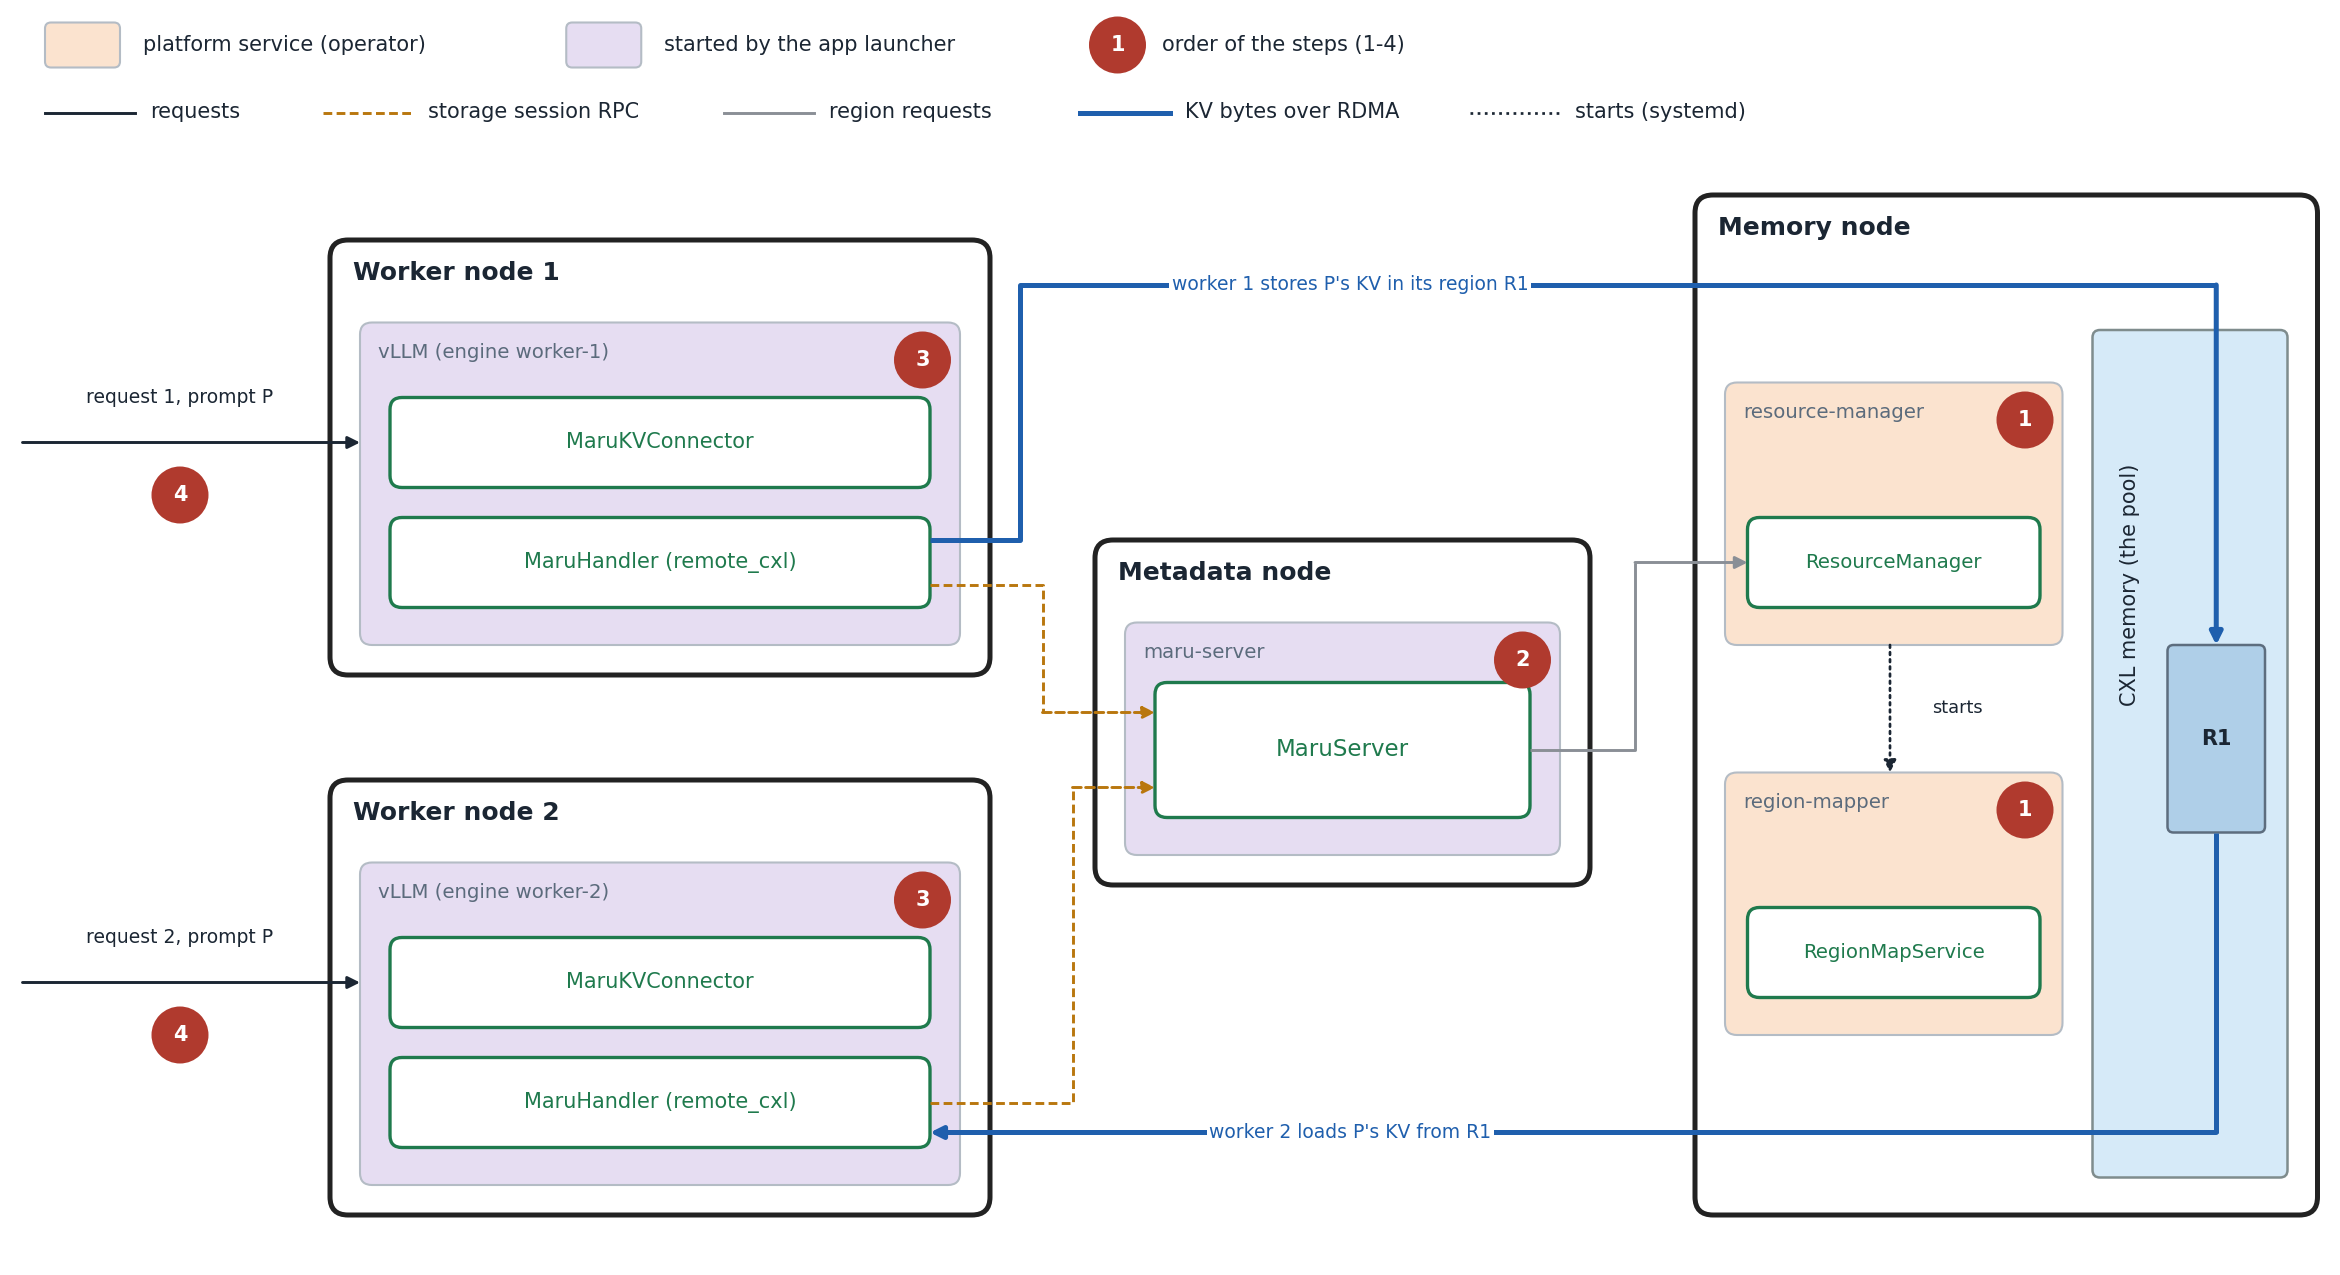
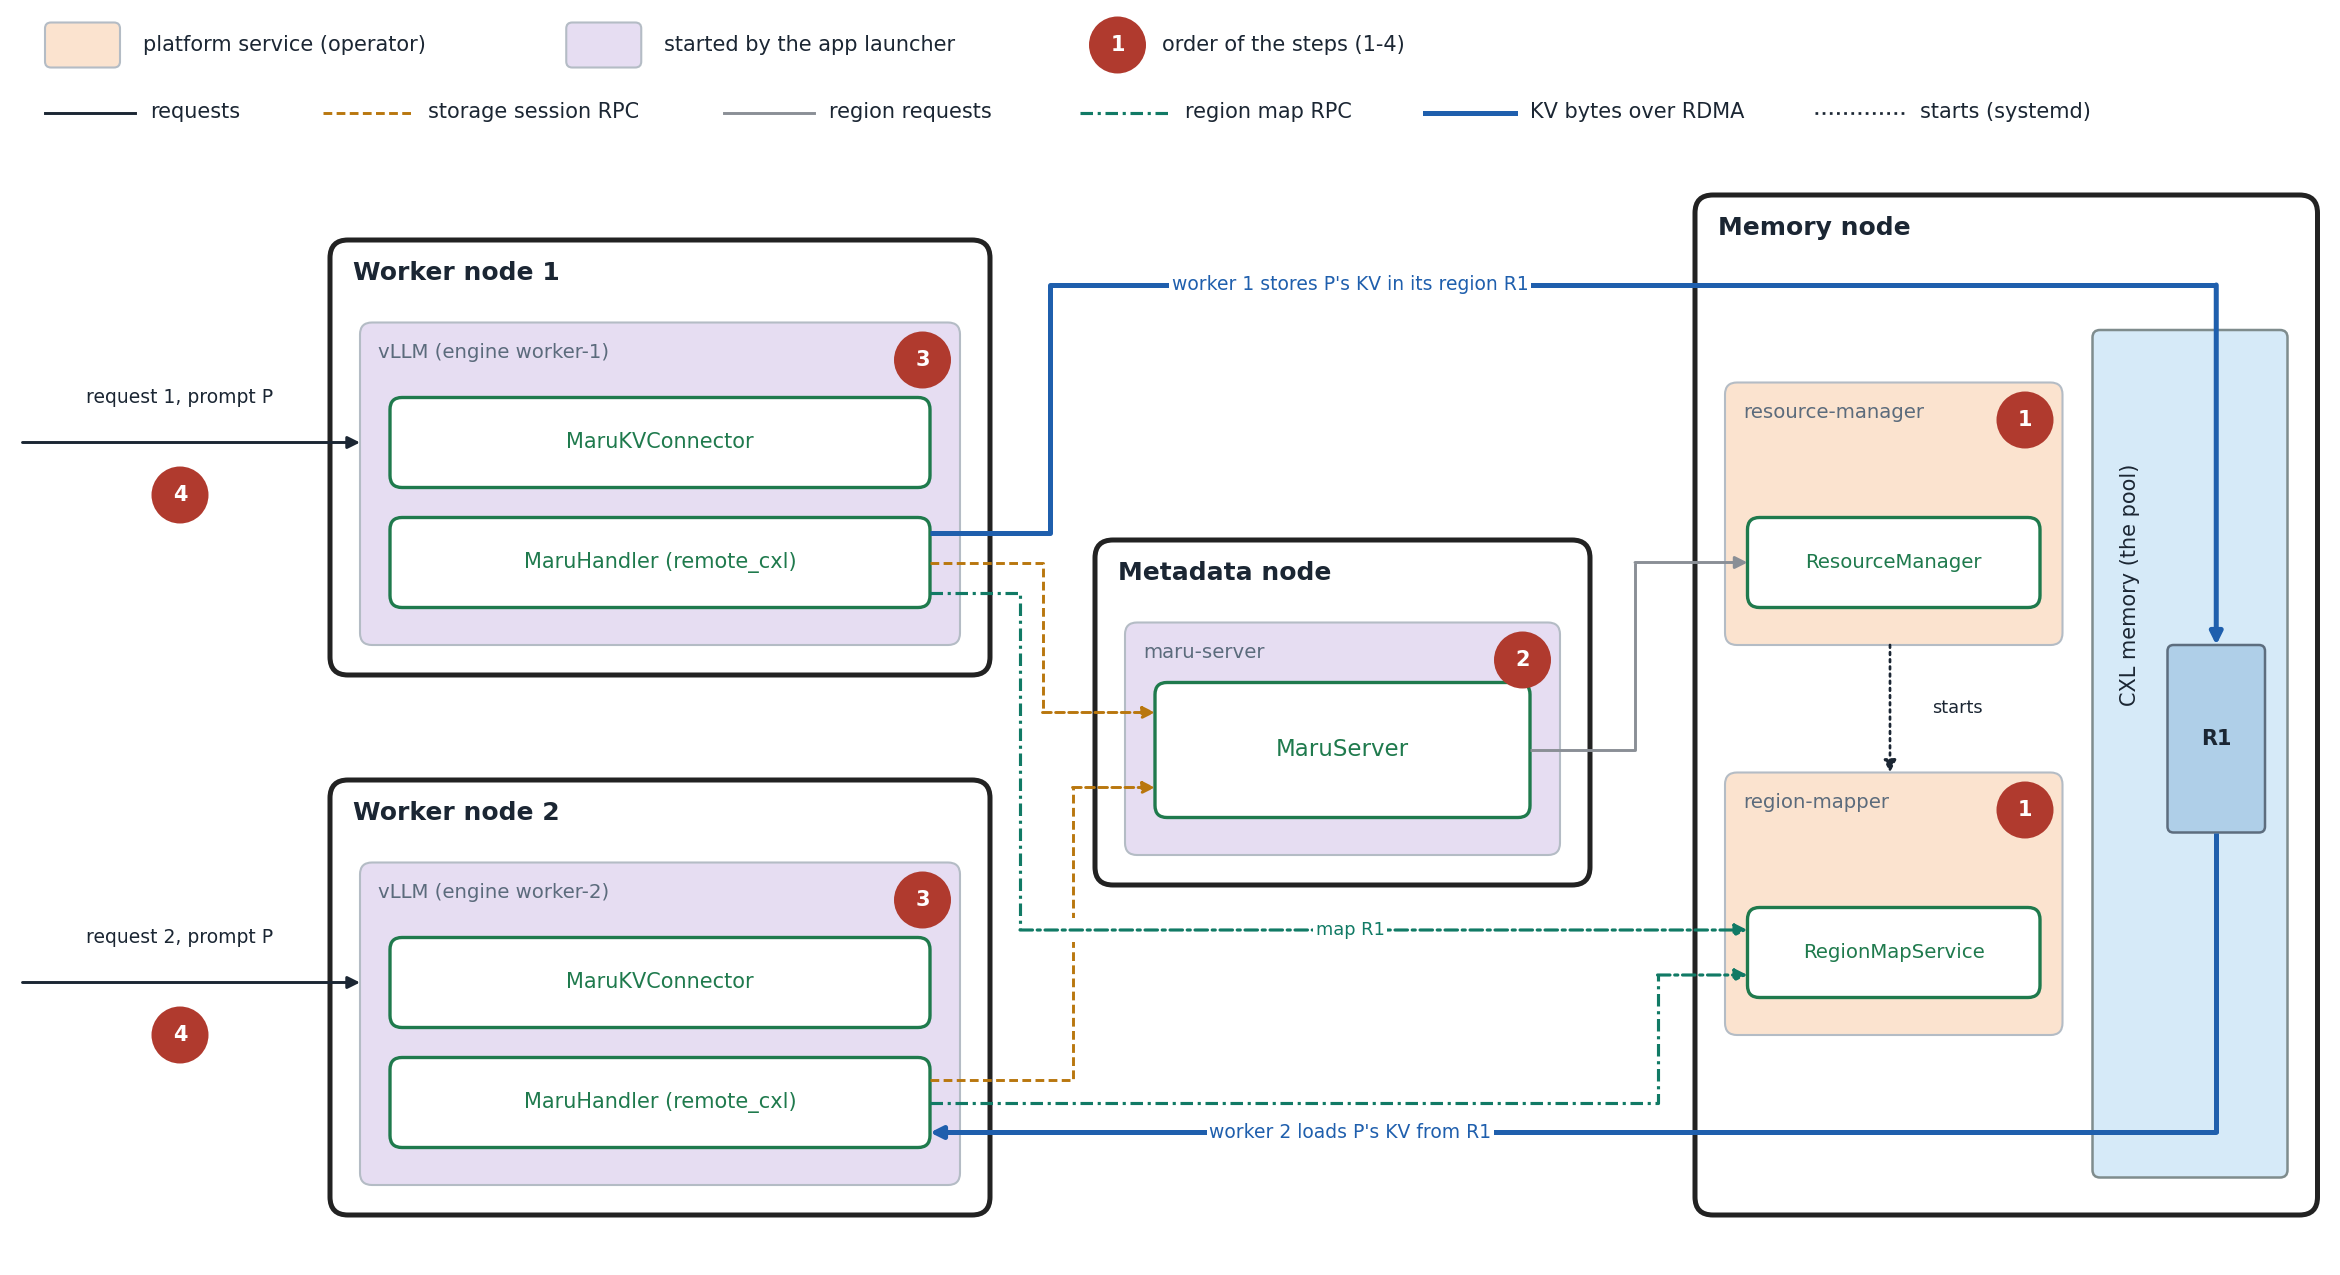
docs(remote_cxl): install NIXL directly; point the region mapper at a networked RM
The install hints named 'maru[rdma]', which pip resolves to an unrelated
PyPI package; Maru installs from its source tree, so the hints now say
pip install nixl. A resource manager bound to a network address answers
only there, so the multi-node steps also set MARU_RM_ADDRESS for the
region mapper and for maru-server. The deployment figure shows each
worker mapping its region at the region mapper.

diff --git a/maru_remote/transport.py b/maru_remote/transport.py
@@ -53,7 +53,7 @@ def _default_agent(agent_name: str, ucx_device: str) -> Any:
         A ``nixl_agent`` instance.
 
     Raises:
-        ImportError: if NIXL is not installed (``pip install 'maru[rdma]'``).
+        ImportError: if NIXL is not installed (``pip install nixl``).
     """
     from nixl._api import nixl_agent, nixl_agent_config
 

diff --git a/maru_region_mapper/installer.py b/maru_region_mapper/installer.py
@@ -172,7 +172,7 @@ def install(
     if not nixl_available():
         print(
             "Skipping the region mapper service: NIXL is not installed "
-            "(pip install 'maru[rdma]' to serve remote workers).",
+            "(pip install nixl to serve remote workers).",
             file=sys.stderr,
         )
         return False

diff --git a/examples/vllm/remote_cxl/README.md b/examples/vllm/remote_cxl/README.md
@@ -60,12 +60,12 @@ moves it, as for the cxl backend.
 ## Requirements
 
 - An RDMA NIC (RoCE or InfiniBand) on every worker and memory node, and NIXL
-  with its UCX backend: `pip install 'maru[rdma]'`.
+  with its UCX backend: `pip install nixl`.
 - On the memory nodes: the CXL/DAX device of the pool, visible on every memory
   node of the pool, and the resource manager on one of them, as for a local CXL
-  deployment. Use a devdax device. Install Maru with NIXL
-  (`pip install 'maru[rdma]'`, then `./install.sh`): the installer also sets up
-  the region mapper as a system service that starts and stops with the
+  deployment. Use a devdax device. Install Maru with NIXL (`pip install
+  nixl`, then `./install.sh` from the Maru source tree): the installer also
+  sets up the region mapper as a system service that starts and stops with the
   resource manager, so a memory node runs it without a separate step.
 - Every worker must reach maru-server and each memory node's region mapper and
   NIC, and so must maru-server reach the region mappers.
@@ -159,6 +159,17 @@ scp ~/.maru/region-mapper.key worker1:.maru/region-mapper.key   # keep it 0600
 When maru-server or another memory node reaches the resource manager over the
 network, the resource manager listens on a network address, as in Maru's
 [multi-node configuration](../../../docs/source/getting_started/installation.md#configuration).
+It then answers only on that address, so the region mapper is pointed at it
+too:
+
+```bash
+sudo systemctl edit maru-resource-manager
+#   [Service]
+#   ExecStart=
+#   ExecStart=/usr/local/bin/maru-resource-manager --host 10.0.0.2 --port 9850
+sudo sed -i 's/^MARU_RM_ADDRESS=.*/MARU_RM_ADDRESS=10.0.0.2:9850/' /etc/maru/region-mapper.env
+sudo systemctl restart maru-resource-manager   # restarts the region mapper with it
+```
 
 A memory node of a shared pool that does not run the resource manager installs
 the region mapper service alone (`--standalone`: it starts at boot on its own)
@@ -199,10 +210,12 @@ maru-server --host 10.0.0.2 --port $MARU_SERVER_PORT --rm-address 127.0.0.1:9850
   --dax-path /dev/dax1.0
 ```
 
-maru-server allocates each worker's regions from the resource manager, as for
-local CXL, and hands the region mapper list to the workers. It also talks to
-the region mappers itself for the regions of workers that left, so it needs
-the key. A shared pool lists
+With the resource manager on a network address (step 1), also give
+`MARU_RM_ADDRESS=10.0.0.2:9850`; maru-server can then run on any node that
+reaches it. maru-server allocates each worker's regions from the resource
+manager, as for local CXL, and hands the region mapper list to the workers.
+It also talks to the region mappers itself for the regions of workers that
+left, so it needs the key. A shared pool lists
 every memory node, `--region-mapper host1:port,host2:port`; each region is then
 served by one of them, picked from the region number, so every worker reaches
 a region through the same node. maru-server runs once per app and pool.

diff --git a/docs/source/getting_started/installation.md b/docs/source/getting_started/installation.md
@@ -11,7 +11,7 @@ Maru consists of two server components and a client library:
 | **Resource Manager** | Manages the CXL memory pool | `maru-resource-manager` (C++) |
 | **Metadata Server** | Manages KV metadata | `maru-server` (Python) |
 | **MaruHandler** | Client library embedded in LLM instances | `maru` Python package |
-| **Region Mapper** | On memory nodes: maps CXL regions for LLM instances on nodes without CXL and registers them with the NIC (`remote_cxl` backend) | `maru-region-mapper` (`maru[rdma]`) |
+| **Region Mapper** | On memory nodes: maps CXL regions for LLM instances on nodes without CXL and registers them with the NIC (`remote_cxl` backend) | `maru-region-mapper` (needs NIXL) |
 
 In a single-node setup, all components run on the same machine. In a multi-node setup, designate one node as the orchestrator to run the Resource Manager and Metadata Server. Other nodes run LLM instances with MaruHandler, which connects to both the Resource Manager and Metadata Server over the network.
 
@@ -77,7 +77,7 @@ To install **without the Resource Manager** (e.g., on nodes that only run LLM in
 
 > **Note:** Client nodes still require CXL device access (`/dev/dax*`) for direct mmap. The `--no-rm` flag skips building the Resource Manager binary — the `maru` Python package (including MaruHandler) is still installed and will connect to the remote Resource Manager.
 
-With NIXL installed (`pip install 'maru[rdma]'` before `./install.sh`), the
+With NIXL installed (`pip install nixl` before `./install.sh`), the
 installer also sets up the region mapper as `maru-region-mapper.service`, which
 starts and stops with the Resource Manager, and creates the region mapper key
 `/etc/maru/region-mapper.key`. Set the node's RDMA NIC in
@@ -207,6 +207,7 @@ Multi-node requires changing default bind addresses from `127.0.0.1` to a networ
 - **Resource Manager**: change `--host` to accept remote connections
 - **Metadata Server**: change `--host` and set `--rm-address` to the Resource Manager's externally reachable address
 - **MaruHandler**: set `server_url` to the Metadata Server's address. The Resource Manager address is received automatically via handshake.
+- **Region Mapper** (`remote_cxl` backend): set `MARU_RM_ADDRESS` in `/etc/maru/region-mapper.env` to the address the Resource Manager listens on; a Resource Manager bound to a network address answers only there.
 
 To run the Resource Manager as the systemd service on a network address, override its command line:
 

diff --git a/docs/source/integration/vllm.md b/docs/source/integration/vllm.md
@@ -277,7 +277,7 @@ stores run on the engine thread unless `maru_async_load` and
 `--no-async-scheduling`, while asynchronous loads run with vLLM's asynchronous
 scheduling on. The worker's staging buffer is registered with CUDA,
 so the copy kernel moves KV between the GPU and the staging buffer as it does
-for mapped CXL memory. NIXL is required (`pip install 'maru[rdma]'`).
+for mapped CXL memory. NIXL is required (`pip install nixl`).
 See the [remote CXL example](https://github.com/xcena-dev/maru/blob/main/examples/vllm/remote_cxl/README.md)
 for one-host and multi-node launch steps.
 
